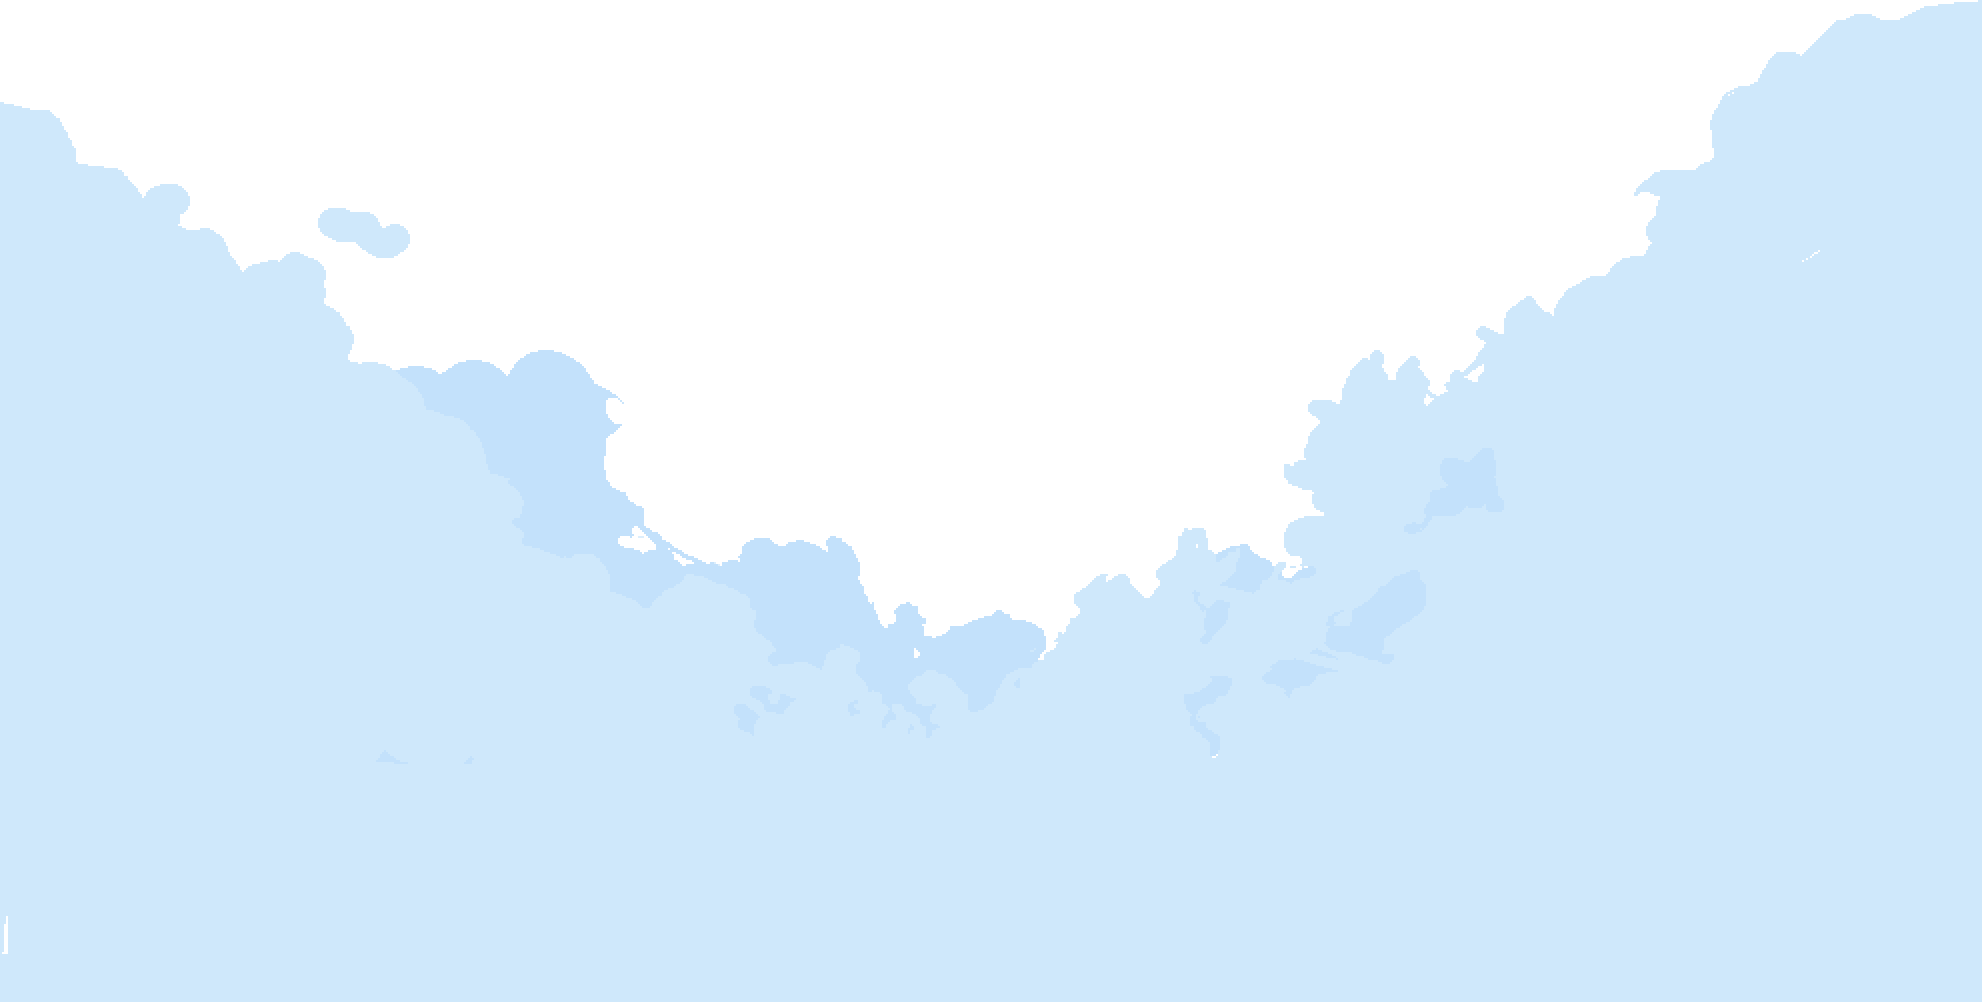
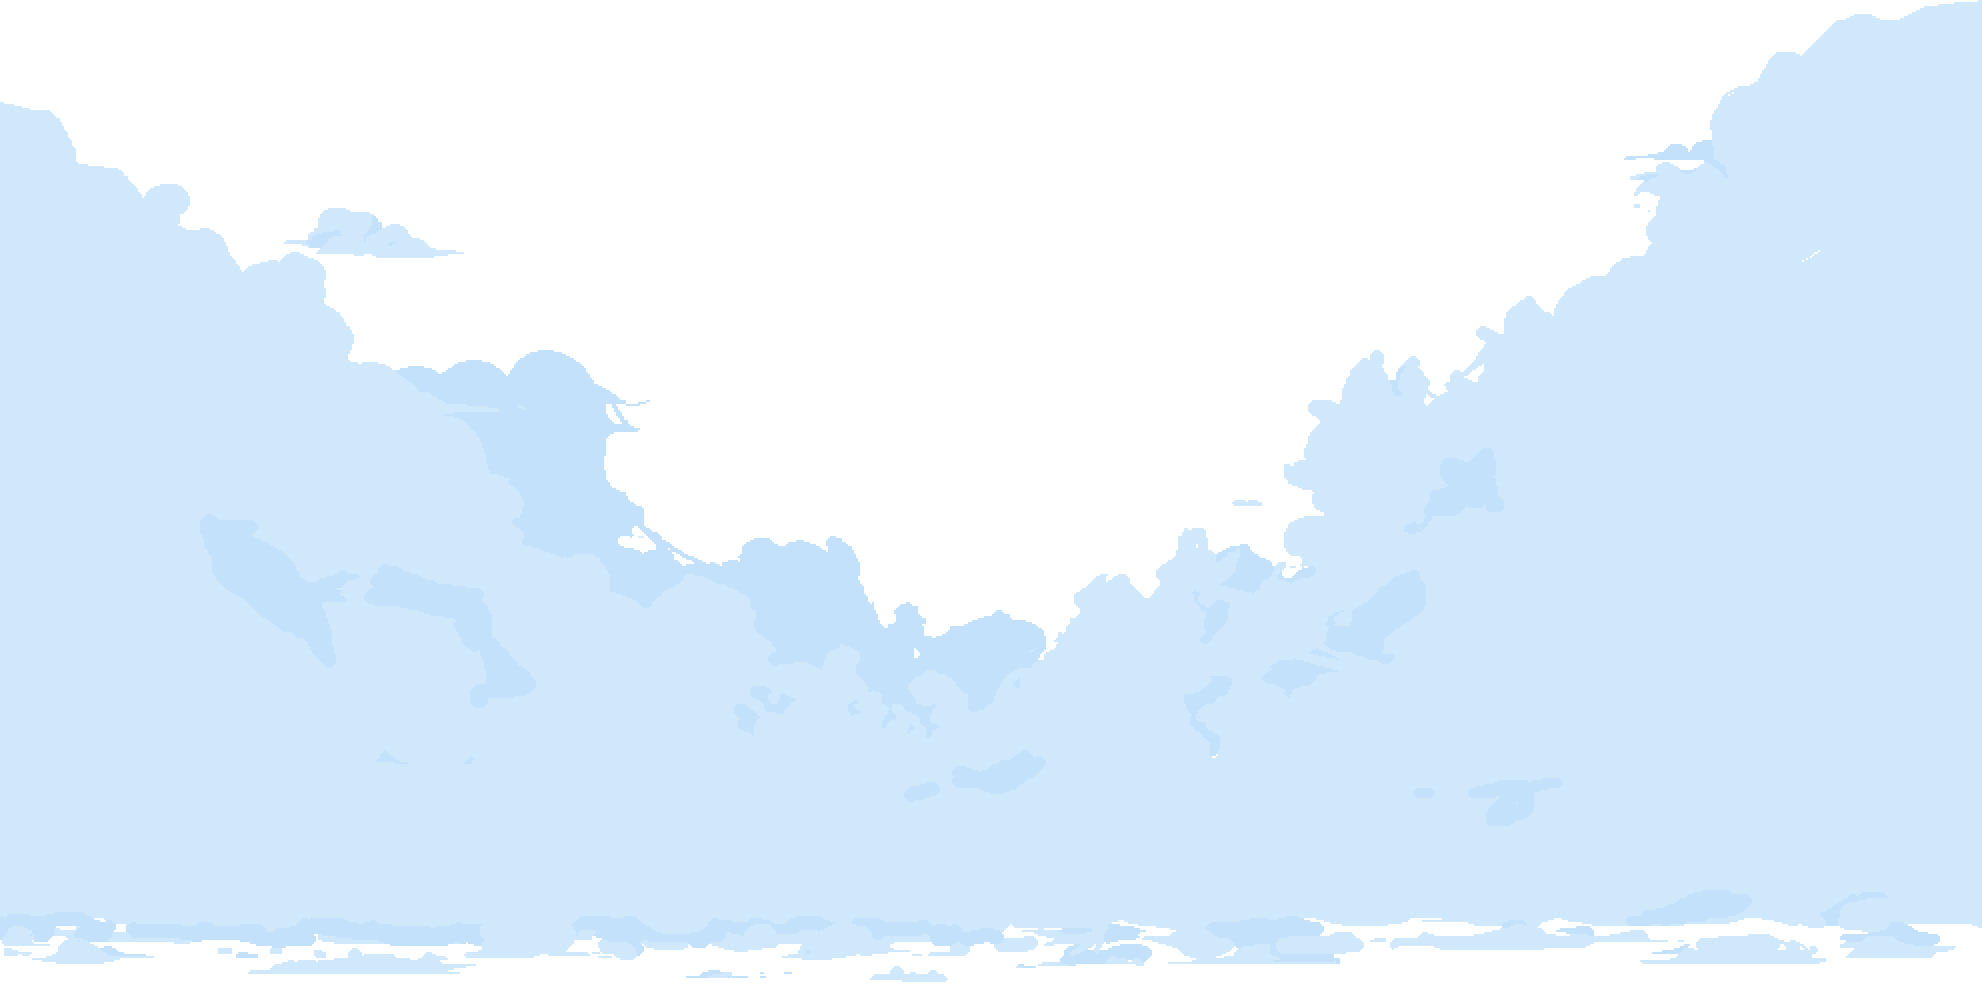
fondo home

diff --git a/src/components/floor/styles.js b/src/components/floor/styles.js
@@ -2,13 +2,59 @@ import styled, { keyframes } from 'styled-components';
 
 
 const run = keyframes`
-    100% { background-position: -1780px; }
+    100% { background-position-X: -178px; }
+`;
+
+const front = keyframes`
+    100% { background-position-X: -1078px; }
+`;
+
+export const ContainerStyled = styled.div`
+  width: 100%;
+  height: 244px;
 `;
 
 export const FloorStyled = styled.div`
   width: 100%;
-  height: 110px;
+  height: 100%;
+  position: absolute;
   background: url(assets/floor.png) left center
-  background-repeat: repeat-x;
-  animation: ${run} 10s linear infinite;
+  background-repeat: repeat no-repeat;
+  animation: ${run} 1s linear infinite;
+  background-position: left bottom;
+  bottom: 0px;
+  z-index: 1;
+`;
+
+export const FloorBackStyled = styled.div`
+  width: 100%;
+  height: 100%;
+  background: url(assets/bushBackBig.png);
+  background-position: left center;
+  background-repeat: repeat no-repeat;
+  animation: ${front} 10s linear infinite;
+  background-position-y: left top;
+  bottom: 31px;
+  position: absolute;
+  z-index: 1;
+`;
+
+export const FloorFrontStyled = styled.div`
+  width: 100%;
+  height: 100%;
+  background: url(assets/bushBig.png);
+  background-position: left center;
+  background-repeat: repeat no-repeat;
+  animation: ${front} 6s linear infinite;
+  background-position-y: calc(100% + -83px);
+  bottom: 0px;
+  position: absolute;
+  z-index: 3;
+`;
+
+
+export const ChildrenStyled = styled.div`
+  position: absolute;
+  bottom: 87px;
+  width: 100%;
 `;

diff --git a/src/pages/home/styles.js b/src/pages/home/styles.js
@@ -18,8 +18,7 @@ export const HomeContainer = styled.div`
 `;
 
 export const HeroContainerStyled = styled.div`
-    position: relative;
-    bottom: -27px;
+    width: 100%;
 `;
 
 export const FloorContainerStyled = styled.div`
@@ -53,7 +52,7 @@ const getShadow = (x, color) =>{
 }
 export const TitleStyled = styled.h1`
     font-family: 'PixelFont';
-    font-size: 74px;
+    font-size: 47px;
     color: #f2e343;
     margin: 0px;
     text-shadow:
@@ -64,12 +63,12 @@ export const TitleStyled = styled.h1`
     & > span {
         background-color: white;
     }
-    line-height: 103px;
+    line-height: 1.7;
     margin-bottom: 20px;
 `
 export const FirstLetterStyled = styled.span`
     position: relative;
-    font-size: 172px;
+    font-size: 125px;
     line-height: 25px;
     vertical-align: bottom;
     color: #f24343;
@@ -134,7 +133,7 @@ export const MenuItemStyled = styled.li`
             position: absolute;
             top: 50%;
             transform: traslateY(-50%);
-            content: url(${process.env.PUBLIC_URL}/assets/poiter.png);
+            content: url(assets/pointer.png);
             transform: translate(-54px, -8px);
         }
     }

diff --git a/src/pages/home/index.js b/src/pages/home/index.js
@@ -25,13 +25,14 @@ class Home extends Component {
                         <MenuItemStyled>Perfil</MenuItemStyled>
                     </MenuStyled>
                     <BotttomStyled>
-                        <HeroContainerStyled>
-                            <HeroWrapperStyled>
-                                <Hero />
-                            </HeroWrapperStyled>
-                        </HeroContainerStyled>
                         <FloorContainerStyled>
-                            <Floor />
+                            <Floor>
+                                <HeroContainerStyled>
+                                    <HeroWrapperStyled>
+                                        <Hero />
+                                    </HeroWrapperStyled>
+                                </HeroContainerStyled>
+                            </Floor>
                         </FloorContainerStyled>
                     </BotttomStyled>
                 </HomeContainer>

diff --git a/src/components/floor/index.js b/src/components/floor/index.js
@@ -1,7 +1,7 @@
 import React, {Component} from 'react'
-import { FloorStyled } from './styles'
+import { FloorStyled, ChildrenStyled, FloorFrontStyled, FloorBackStyled, ContainerStyled } from './styles'
 
-class Hero extends Component {
+class Floor extends Component {
     constructor(props){
         super(props)
         this.state = {
@@ -10,10 +10,16 @@ class Hero extends Component {
     }
 
     render(){
+        const {children} = this.props
         return(
-            <FloorStyled />
+            <ContainerStyled>
+                <FloorBackStyled />
+                <FloorStyled/>
+                <ChildrenStyled>{children}</ChildrenStyled>
+                <FloorFrontStyled />
+            </ContainerStyled>
         )
     }
 }
 
-export default Hero
+export default Floor

diff --git a/src/components/sky/styles.js b/src/components/sky/styles.js
@@ -12,7 +12,7 @@ export const SkyStyled = styled.div`
   background-repeat: no-repeat;
   width: 100%;
   background-sice: cover;
-  background-position: center bottom ;
+  background-position: center 81%;
   background-color: ${props=>props.skyColor?props.skyColor:colors.sky}
   z-index: 0;
 `;
@@ -34,4 +34,13 @@ export const ContentStyled = styled.div`
   bottom: 0px;
   width: 100%;
   min-height: 100vh;
+`;
+
+export const SeaStyled = styled.div`
+  position: absolute;
+  bottom: 0px;
+  height: 128px;
+  background-color: ${colors.seaBlue}
+  width: 100%;
+  border-top: solid 14px ${colors.seaBlueLight}
 `;

diff --git a/src/components/sky/index.js b/src/components/sky/index.js
@@ -1,5 +1,5 @@
 import React, {Component} from 'react'
-import { SkyStyled, TreeStyled, ContentStyled } from './styles'
+import { SkyStyled, TreeStyled, ContentStyled, SeaStyled } from './styles'
 import {colors} from '../../config/vars'
 
 class Sky extends Component {
@@ -17,6 +17,7 @@ class Sky extends Component {
         const { children, className } = this.props
         return(
             <SkyStyled className={className} {...config} >
+                 <SeaStyled />
                 <ContentStyled>
                     {children}
                 </ContentStyled>

diff --git a/src/components/hero/styles.js b/src/components/hero/styles.js
@@ -19,7 +19,7 @@ export const ShadowStyled = styled.div`
    border-radius: 100%;
    height: 7px;
    width: 50px;
-   z-index: 0;
+   z-index: 1;
    left: 25px;
    background-color: ${colors.shadow}
 `;
@@ -32,5 +32,5 @@ export const SpriteStyled = styled.div`
     width: 100%;
     background: url(assets/theHero.png) left center
     animation: ${run} 1.1s steps(10) infinite;
-    z-index: 1;
+    z-index: 2;
 `;

diff --git a/src/config/vars.js b/src/config/vars.js
@@ -2,4 +2,6 @@ export const PUBLIC_URL = process.env.PUBLIC_URL
 export const colors = {
     sky: '#a5d3f8',
     shadow: '#0006',
+    seaBlue: '#5eb3f7',
+    seaBlueLight: '#87c9fd',
 }
